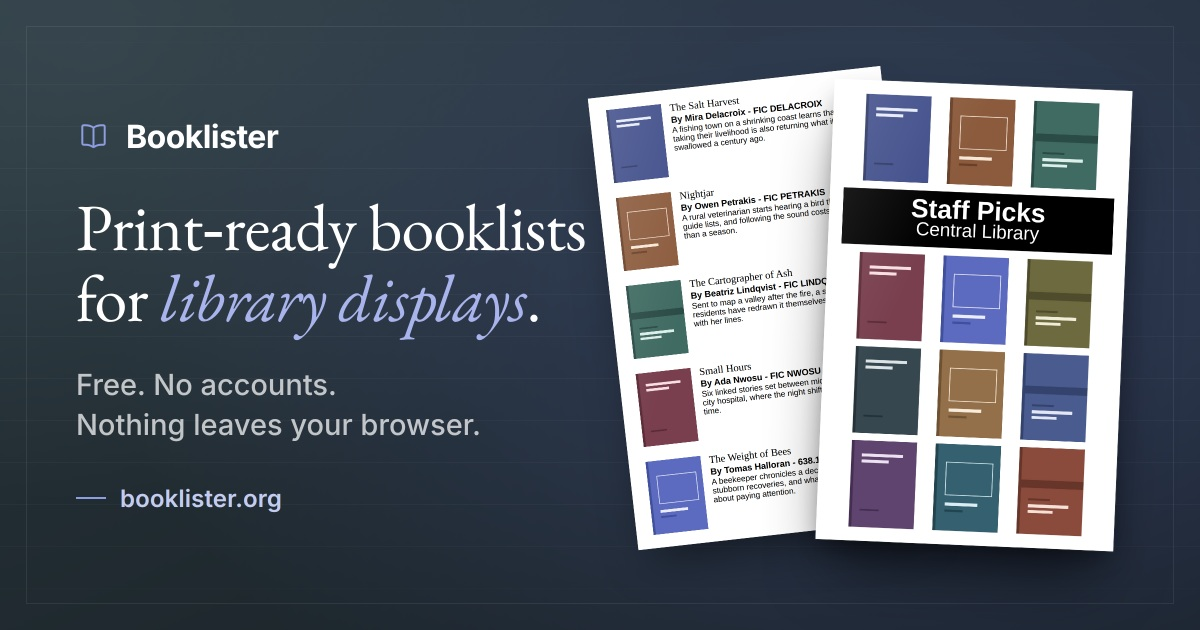
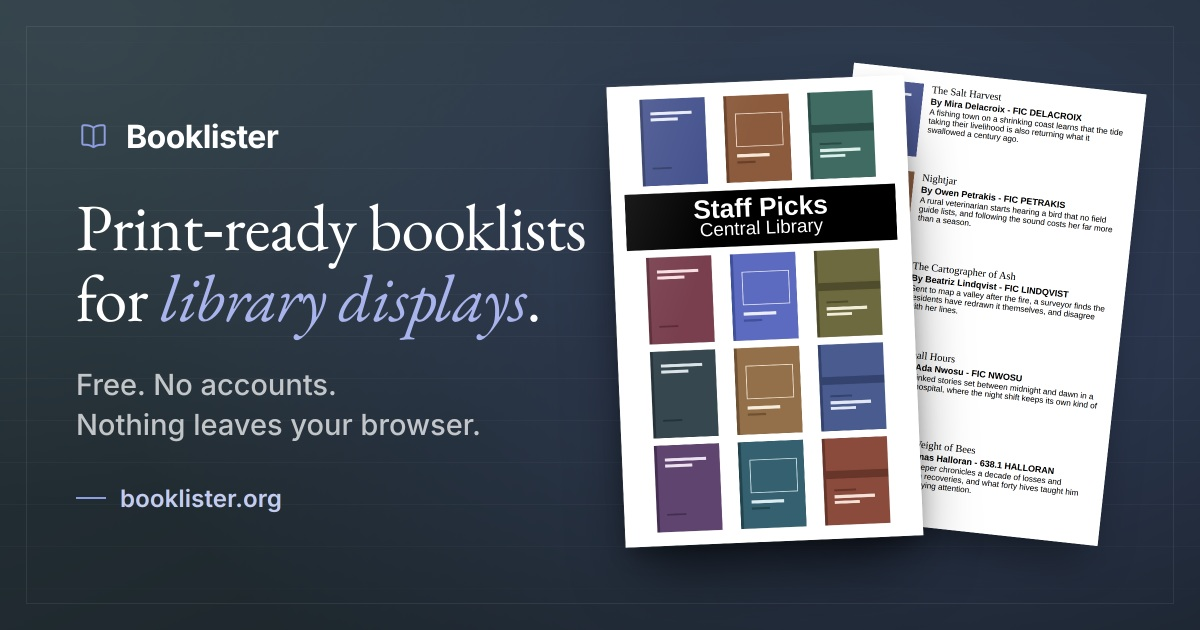
Make the share image survive a square crop
Teams (and chat clients generally) crop an og:image to a square, keeping
only the middle 630px, x 285-915. The card put the copy left and the
pages right, so that window caught a headline sliced mid-word and the
text-heavy inside page, while the front cover — the one element that
reads instantly as a library booklist — was cut off at the edge.

A text-left / product-right layout cannot fit both halves in a centre
square; something has to lose. The product wins, because at the size
these thumbnails render the copy is unreadable regardless.

So the two sheets swap: the front cover moves to the LEFT of the pair,
landing fully inside the crop window, and the inside page trails off to
the right where cropping costs nothing. The square now shows the whole
cover, collage and title bar included.

The wide rendering did not regress, and arguably reads better: the cover
is the hero and now sits next to the copy, so the eye goes headline ->
cover -> list rather than meeting the dense inside page first.

Constraint recorded in card.html's header and in CLAUDE.md so a later
layout tweak doesn't quietly undo it.

Changed region(s): [[0.4933, 0.0905, 0.9558, 0.8746]]

diff --git a/tools/og-image/card.html b/tools/og-image/card.html
@@ -91,19 +91,28 @@ __FONT_FACES__
   .sheet img { display: block; width: 100%; height: 100%; object-fit: fill; }
 
   /* Both sheets are the same real 5.5x8.5 panel (1056 x 1632 captured),
-     so they must stay at the same aspect or the pages stop matching. */
-  .inside {
-    left: 6px; top: 62px; width: 318px; height: 491px;
-    transform: rotate(-6.4deg);
-    box-shadow: 0 26px 50px -18px rgba(0,0,0,.5);
-  }
+     so they must stay at the same aspect or the pages stop matching.
+
+     CENTRE-SAFE PLACEMENT. Some clients (Teams, and small chat
+     thumbnails generally) crop an og:image to a square, which keeps only
+     the middle 630px: x 285-915. A text-left / product-right layout
+     cannot fit both in there, so the product wins, since at thumbnail
+     size the copy is unreadable anyway. The COVER therefore sits at the
+     left of the pair, inside that window, and the inside page trails off
+     to the right where cropping costs nothing. Check crop survival
+     before moving either sheet. */
   .cover {
-    left: 236px; top: 66px; width: 322px; height: 498px;
-    transform: rotate(2.4deg);
+    left: 10px; top: 62px; width: 322px; height: 498px;
+    transform: rotate(-2.4deg);
     box-shadow:
       0 40px 70px -18px rgba(0,0,0,.62),
       0 12px 26px -8px rgba(0,0,0,.42),
       0 0 0 1px rgba(255,255,255,.07);
+  }
+  .inside {
+    left: 240px; top: 58px; width: 318px; height: 491px;
+    transform: rotate(6.2deg);
+    box-shadow: 0 26px 50px -18px rgba(0,0,0,.5);
   }
 
   /* a hint of paper sheen across both sheets */

diff --git a/CLAUDE.md b/CLAUDE.md
@@ -229,11 +229,18 @@ tools/                          On-demand developer utilities. NOTHING here is
                                 24px type floor documented in its header
                                 comment: platforms render the card at ~360-550px
                                 wide (a 0.3-0.45x shrink), so smaller type is
-                                illegible where it's actually seen. Header
-                                comments are stripped before substitution
-                                because they mention the token names — without
-                                that, the first match is in the comment and the
-                                real img src never gets filled.
+                                illegible where it's actually seen. Also respect
+                                the centre-safe rule: Teams and other chat
+                                clients crop to a square, keeping only x 285-915,
+                                so the front cover sheet is deliberately placed
+                                at the LEFT of the pair to land inside that
+                                window, with the inside page trailing right where
+                                cropping is free. Text loses that contest and is
+                                allowed to be cut. Header comments are stripped
+                                before substitution because they mention the
+                                token names — without that, the first match is in
+                                the comment and the real img src never gets
+                                filled.
 tests/
   setup.js                      Loads config.js + book-utils.js into jsdom via eval
   book-utils.test.js            Unit tests for all BookUtils functions
